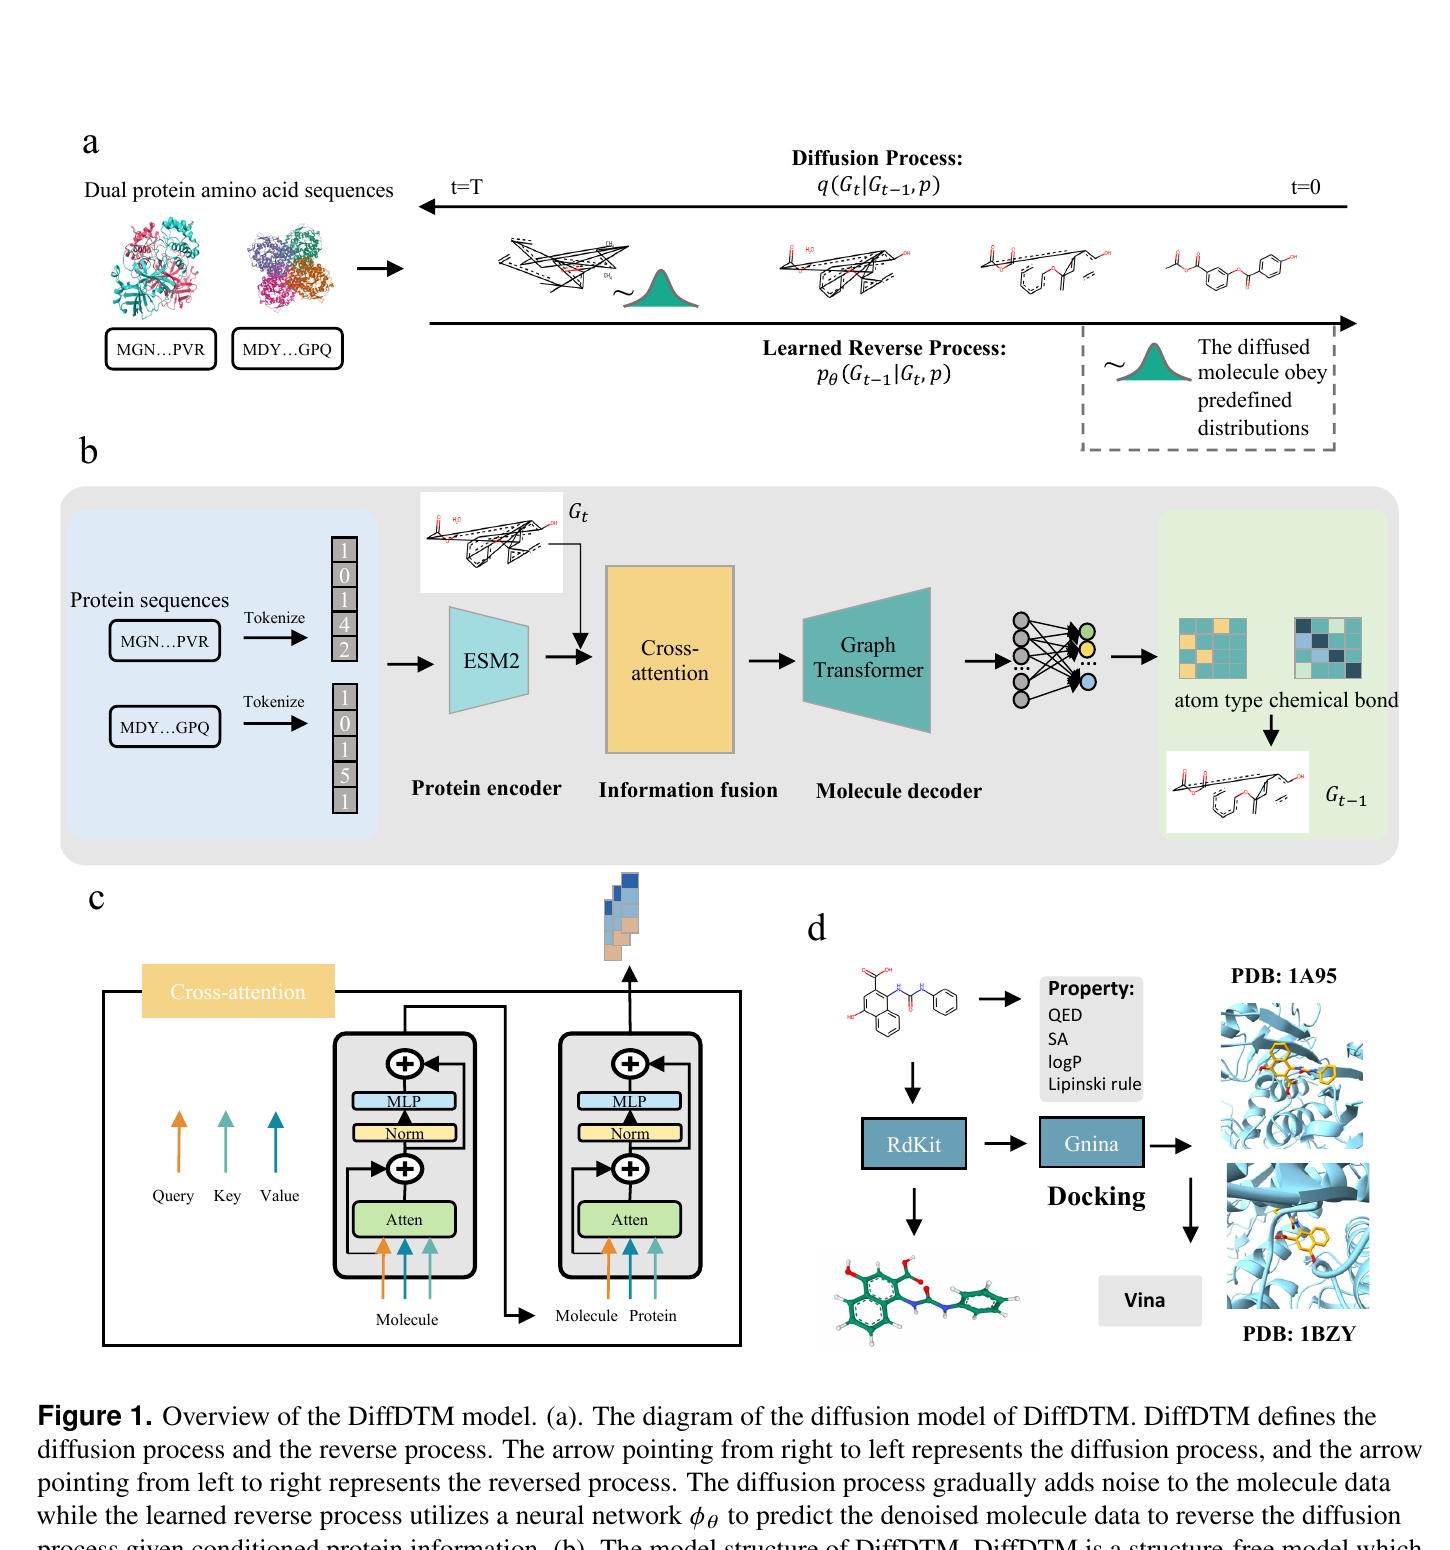
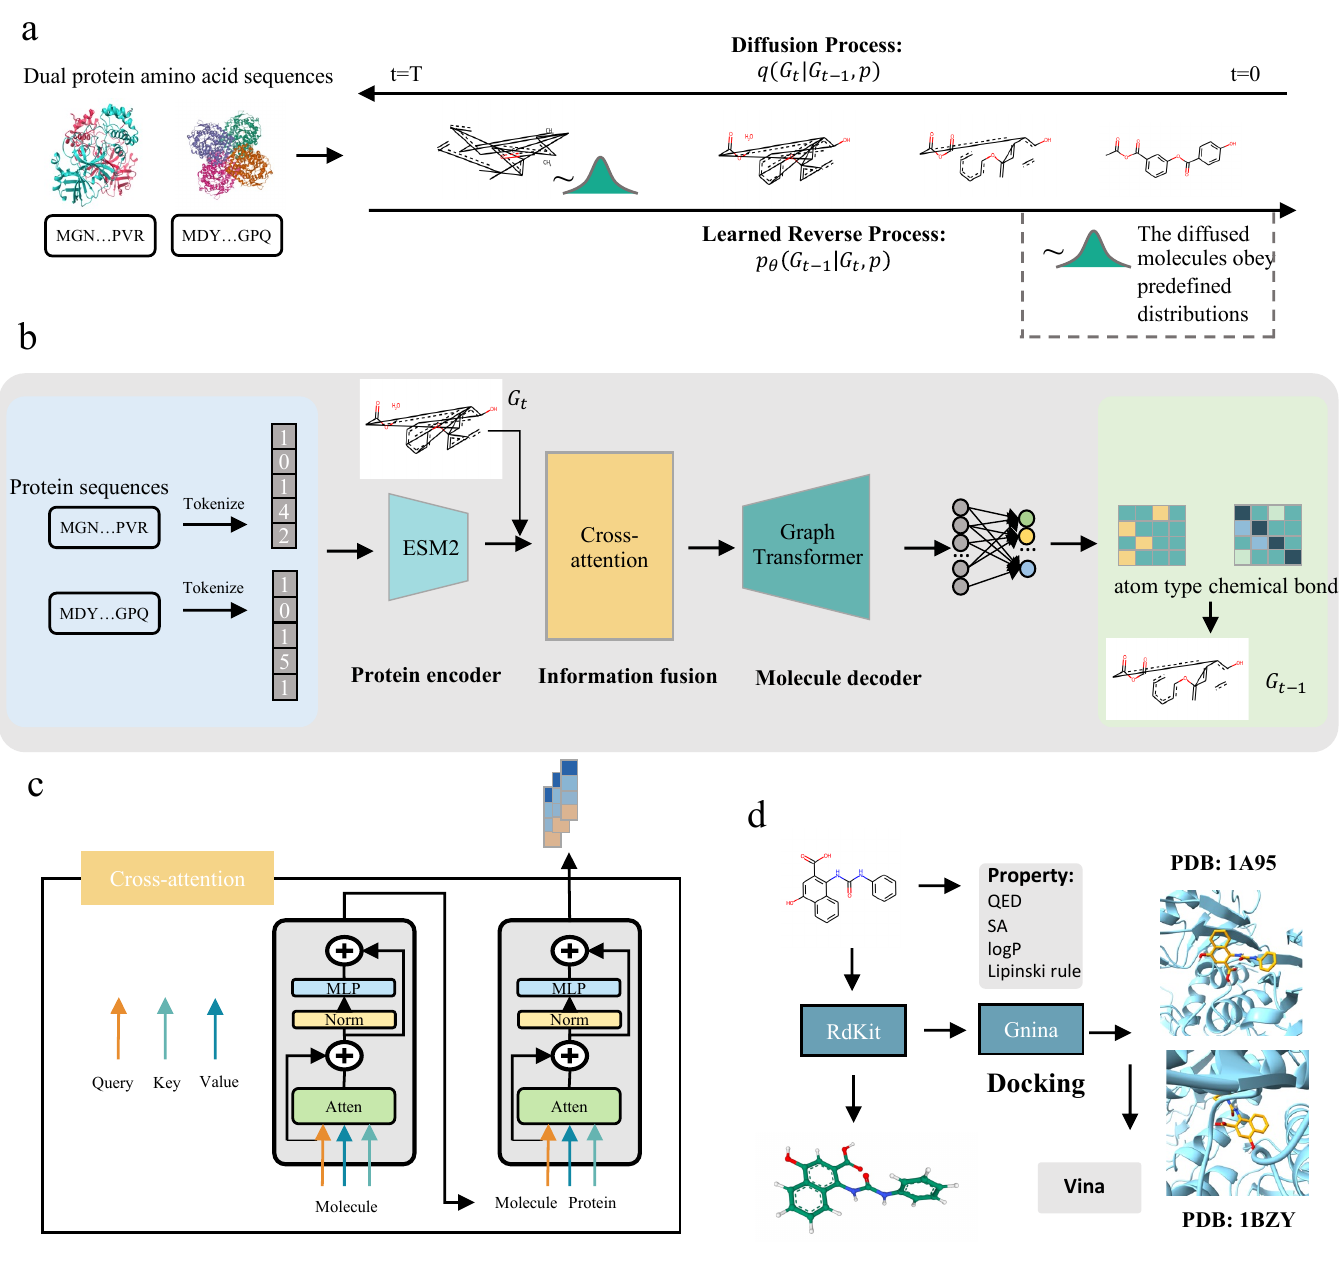
Update publication figures and mobile portrait

diff --git a/_sass/minimal-light.scss b/_sass/minimal-light.scss
@@ -653,8 +653,13 @@ pre {
   }
 
   .profile-avatar {
-    height: 220px;
+    height: 250px;
     margin-bottom: 14px;
+  }
+
+  .profile-avatar img {
+    object-position: center 30%;
+    transform: none;
   }
 
   .profile-card h1 {

diff --git a/publications.md b/publications.md
@@ -108,7 +108,7 @@ layout: homepage
       <h3>EGFI: Drug-Drug Interaction Extraction and Generation with Fusion of Enriched Entity and Sentence Information</h3>
       <p><strong>Lei Huang</strong>, Jiecong Lin, Xiangtao Li, Linqi Song, Zetian Zheng, Ka-Chun Wong</p>
       <figure class="publication-visual publication-visual--egfi">
-        <img src="./assets/img/papers/egfi-figure-1.png" alt="Overview of the EGFI extraction and generation framework for drug-drug interactions">
+        <img src="./assets/img/papers/egfi-figure-1.jpeg" alt="Overview of the EGFI extraction and generation framework for drug-drug interactions">
         <figcaption>Figure 1 from Huang et al., <em>Briefings in Bioinformatics</em> (2021).</figcaption>
       </figure>
       <div class="link-row"><a href="https://pubmed.ncbi.nlm.nih.gov/34791012/" target="_blank" rel="noopener">Paper</a></div>
